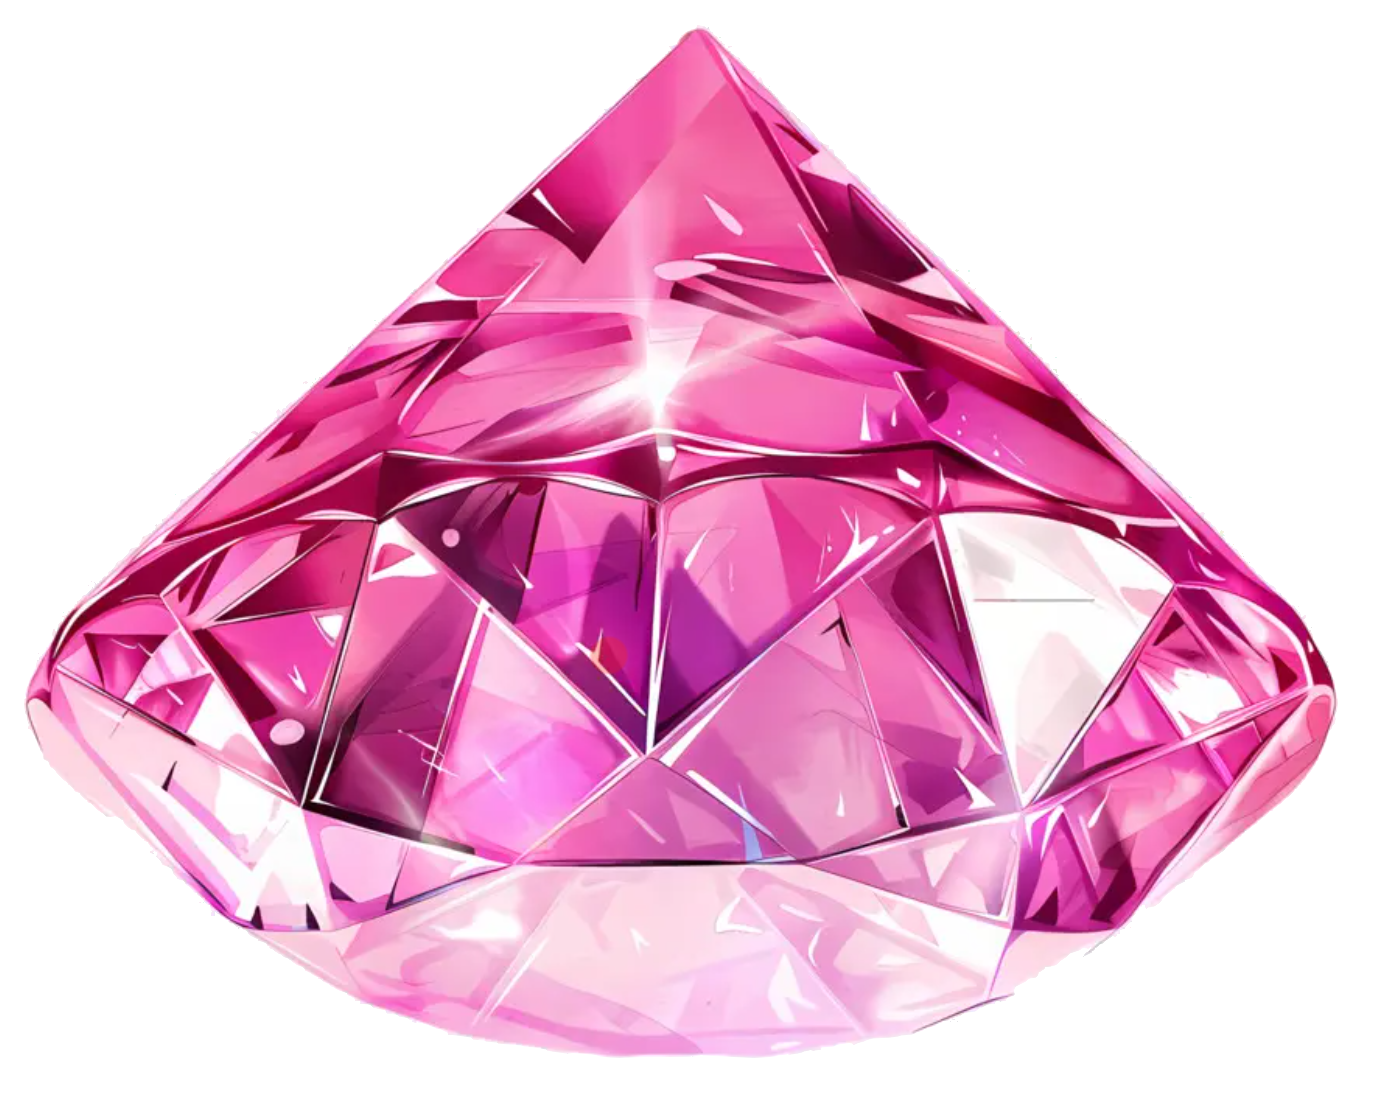
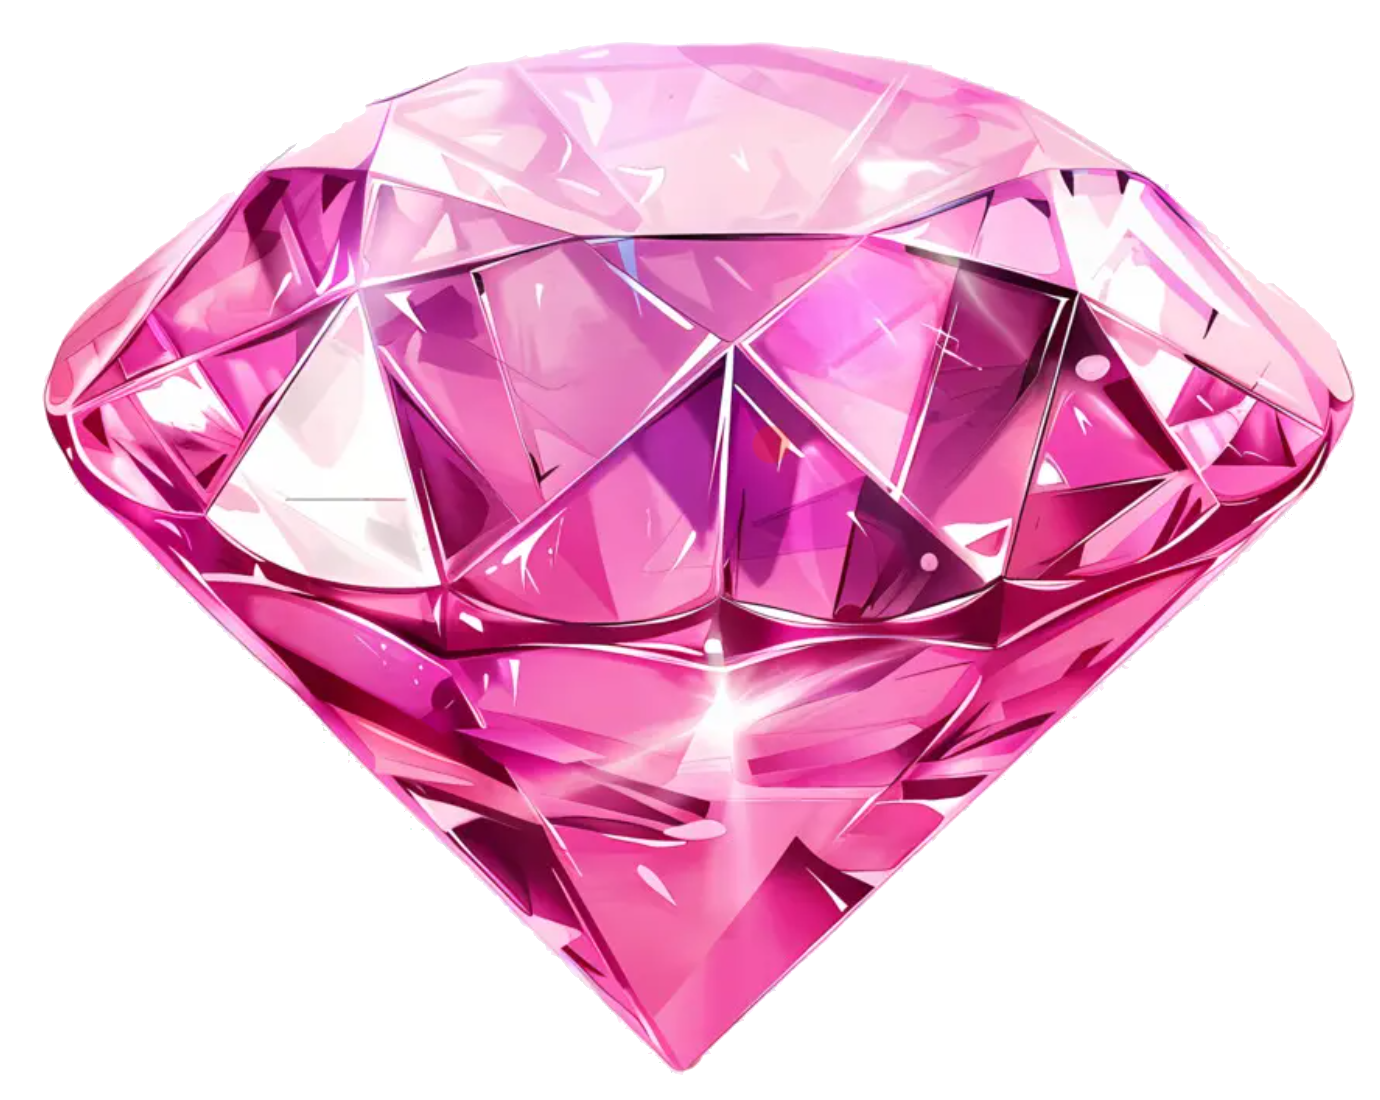
code is running well

diff --git a/src/main/java/pkgSrRenderEngine/SrMSRenderer.java b/src/main/java/pkgSrRenderEngine/SrMSRenderer.java
@@ -1,11 +1,18 @@
 package pkgSrRenderEngine;
 import org.joml.Vector4f;
+import org.lwjgl.BufferUtils;
 import pkgMineSweeper.SrMSBoard;
 import pkgSrRenderEngine.SrRenderer;
+import pkgSrUtils.SrMouseListener;
 import pkgSrUtils.SrWindowManager;
+
+import java.nio.FloatBuffer;
+import java.nio.IntBuffer;
 
 import static org.lwjgl.glfw.GLFW.glfwPollEvents;
 import static org.lwjgl.opengl.GL11C.*;
+import static org.lwjgl.opengl.GL15C.*;
+import static org.lwjgl.opengl.GL15C.GL_DYNAMIC_DRAW;
 import static pkgDriver.SrSpot.*;
 
 
@@ -53,14 +60,14 @@ public class SrMSRenderer extends SrRenderer{
                     myVDMgr.setDefaultColor(new Vector4f(1, 1, 1, 1));
 
                     // triangle 1
-                    myVDMgr.fillTriangleVertexCoordinates(xmin, ymin, 0, 0,
-                            xmin + TILE_SIZE, ymin, 1, 0,
-                            xmin + TILE_SIZE, ymin + TILE_SIZE, 1, 1);
+                    myVDMgr.fillTriangleVertexCoordinates(xmin, ymin, 0, 1,
+                            xmin + TILE_SIZE, ymin, 1, 1,
+                            xmin + TILE_SIZE, ymin + TILE_SIZE, 1, 0);
 
                     // Triangle 2
-                    myVDMgr.fillTriangleVertexCoordinates(xmin, ymin, 0, 0,
-                            xmin + TILE_SIZE, ymin + TILE_SIZE, 1, 1,
-                            xmin, ymin + TILE_SIZE, 0, 1);
+                    myVDMgr.fillTriangleVertexCoordinates(xmin, ymin, 0, 1,
+                            xmin + TILE_SIZE, ymin + TILE_SIZE, 1, 0,
+                            xmin, ymin + TILE_SIZE, 0, 0);
                     count++;
                 }
 
@@ -74,8 +81,56 @@ public class SrMSRenderer extends SrRenderer{
         initTextures();
         while (!curWM.isGlfwWindowClosed()) {
             glfwPollEvents();
+
+            if(SrMouseListener.isPressed() && !board.isGameOver()){
+                double px = SrMouseListener.getX();
+                double py = SrMouseListener.getY();
+
+                // flipping y because glfw is top-bottom and opengl is bottom-up
+                double flippedY = WIN_HEIGHT - py;
+
+                // convert pixel to tile
+                int col = (int)(px - TILE_OFFSET_X) / (TILE_SIZE + PADDING_X);
+                int row = (int)(py - TILE_OFFSET_Y) / (TILE_SIZE + PADDING_Y);
+
+                // check bounds
+                if(col >= 0 && col < BOARD_COLS && row >= 0 && row < BOARD_ROWS){
+                    // check dead zone
+                    int localX = (int)(px - TILE_OFFSET_X) % (TILE_SIZE + PADDING_X);
+                    int localY = (int)(py - TILE_OFFSET_Y) % (TILE_SIZE + PADDING_Y);
+
+                    if(localX < TILE_SIZE && localY < TILE_SIZE){
+                        if (!board.isRevealed(row, col)) {
+                            board.reveal(row, col);
+                            System.out.println("Mouse click at: (" + row + ", " + col + ")   Score: " + board.getScore());
+                        }
+                    }
+                }
+            }
+
+
+
+
             glClear(GL_COLOR_BUFFER_BIT | GL_DEPTH_BUFFER_BIT);
-            glDrawElements(GL_TRIANGLES, BOARD_ROWS * BOARD_COLS * 6, GL_UNSIGNED_INT, 0L);
+
+            // Pass 1- unrevealed textures
+            int unrevealedCount = fillVertexCoordinates(0);
+            reuploadBuffers();
+            unrevealedTex.bindTexture();
+            glDrawElements(GL_TRIANGLES, unrevealedCount * 6, GL_UNSIGNED_INT, 0L);
+
+            // Pass 2 - diamonds
+            int diamondCount = fillVertexCoordinates(1);
+            reuploadBuffers();
+            diamondTex.bindTexture();
+            glDrawElements(GL_TRIANGLES, diamondCount * 6, GL_UNSIGNED_INT, 0L);
+
+            // Pass 3 - mines
+            int mineCount =fillVertexCoordinates(-1);
+            reuploadBuffers();
+            mineTex.bindTexture();
+            glDrawElements(GL_TRIANGLES, mineCount * 6, GL_UNSIGNED_INT, 0L);
+
             curWM.swapBuffers();
 
         }
@@ -88,5 +143,16 @@ public class SrMSRenderer extends SrRenderer{
         mineTex = new SrTextureObject(imgPath + "Mine2CCL.PNG");
         unrevealedTex = new SrTextureObject(imgPath + "MysteryBox_2.PNG");
         diamondTex = new SrTextureObject(imgPath + "ShiningDiamond_2.PNG");
+    }
+
+    private void reuploadBuffers() {
+        glBindBuffer(GL_ARRAY_BUFFER, vbo);
+        glBufferData(GL_ARRAY_BUFFER, (FloatBuffer) BufferUtils.createFloatBuffer(myVDMgr.getVertexArrayLength())
+                .put(myVDMgr.getVertexArray(), 0, myVDMgr.getVertexArrayLength()).flip(), GL_DYNAMIC_DRAW);
+
+        glBindBuffer(GL_ELEMENT_ARRAY_BUFFER, ibo);
+        glBufferData(GL_ELEMENT_ARRAY_BUFFER, (IntBuffer) BufferUtils.createIntBuffer(myVDMgr.getIndexArray().length)
+                .put(myVDMgr.getIndexArray(), 0, myVDMgr.getIndexArray().length).flip(), GL_DYNAMIC_DRAW);
+
     }
 }

diff --git a/src/main/java/pkgMineSweeper/SrMSBoard.java b/src/main/java/pkgMineSweeper/SrMSBoard.java
@@ -63,9 +63,22 @@ public class SrMSBoard extends SrIntArray {
     }
     public boolean isGameOver() { return gameOver; }
 
+
     public void reveal(int row, int col){
         revealed[row][col] = true;
         totalScore += calculateScore(row, col);
+        if(isMine(row, col)){
+            gameOver = true;
+            for(int r = 0; r < rows; r++){
+                for(int c = 0; c < cols; c++){
+                    revealed[r][c] = true;
+                }
+            }
+        }
+        else{
+            revealed[row][col] = true;
+            totalScore += calculateScore(row, col);
+        }
     }
     public boolean isMine(int row, int col){
         return arrayData[row][col] == -1;

diff --git a/src/main/java/pkgSrUtils/SrMouseListener.java b/src/main/java/pkgSrUtils/SrMouseListener.java
@@ -20,7 +20,7 @@ public class SrMouseListener {
         }
     }
 
-    public double getX() {return mouseX;}
-    public double getY(){return mouseY;}
-    public boolean isPressed(){return mouseButtonPressed;}
+    public static double getX() {return mouseX;}
+    public static double getY(){return mouseY;}
+    public static boolean isPressed(){return mouseButtonPressed;}
 }
